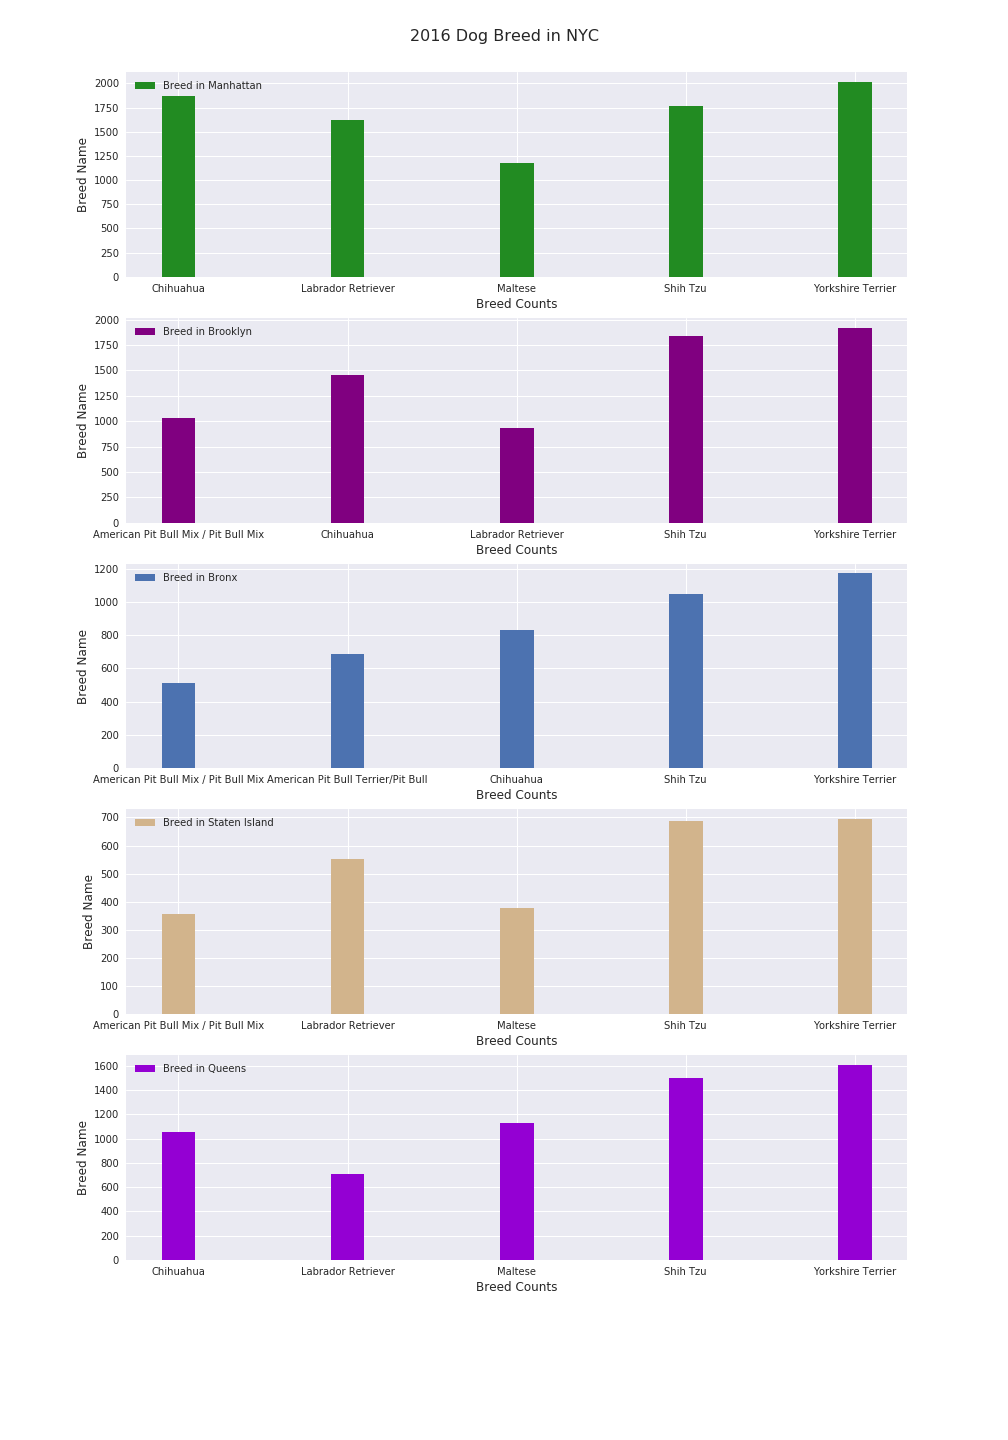
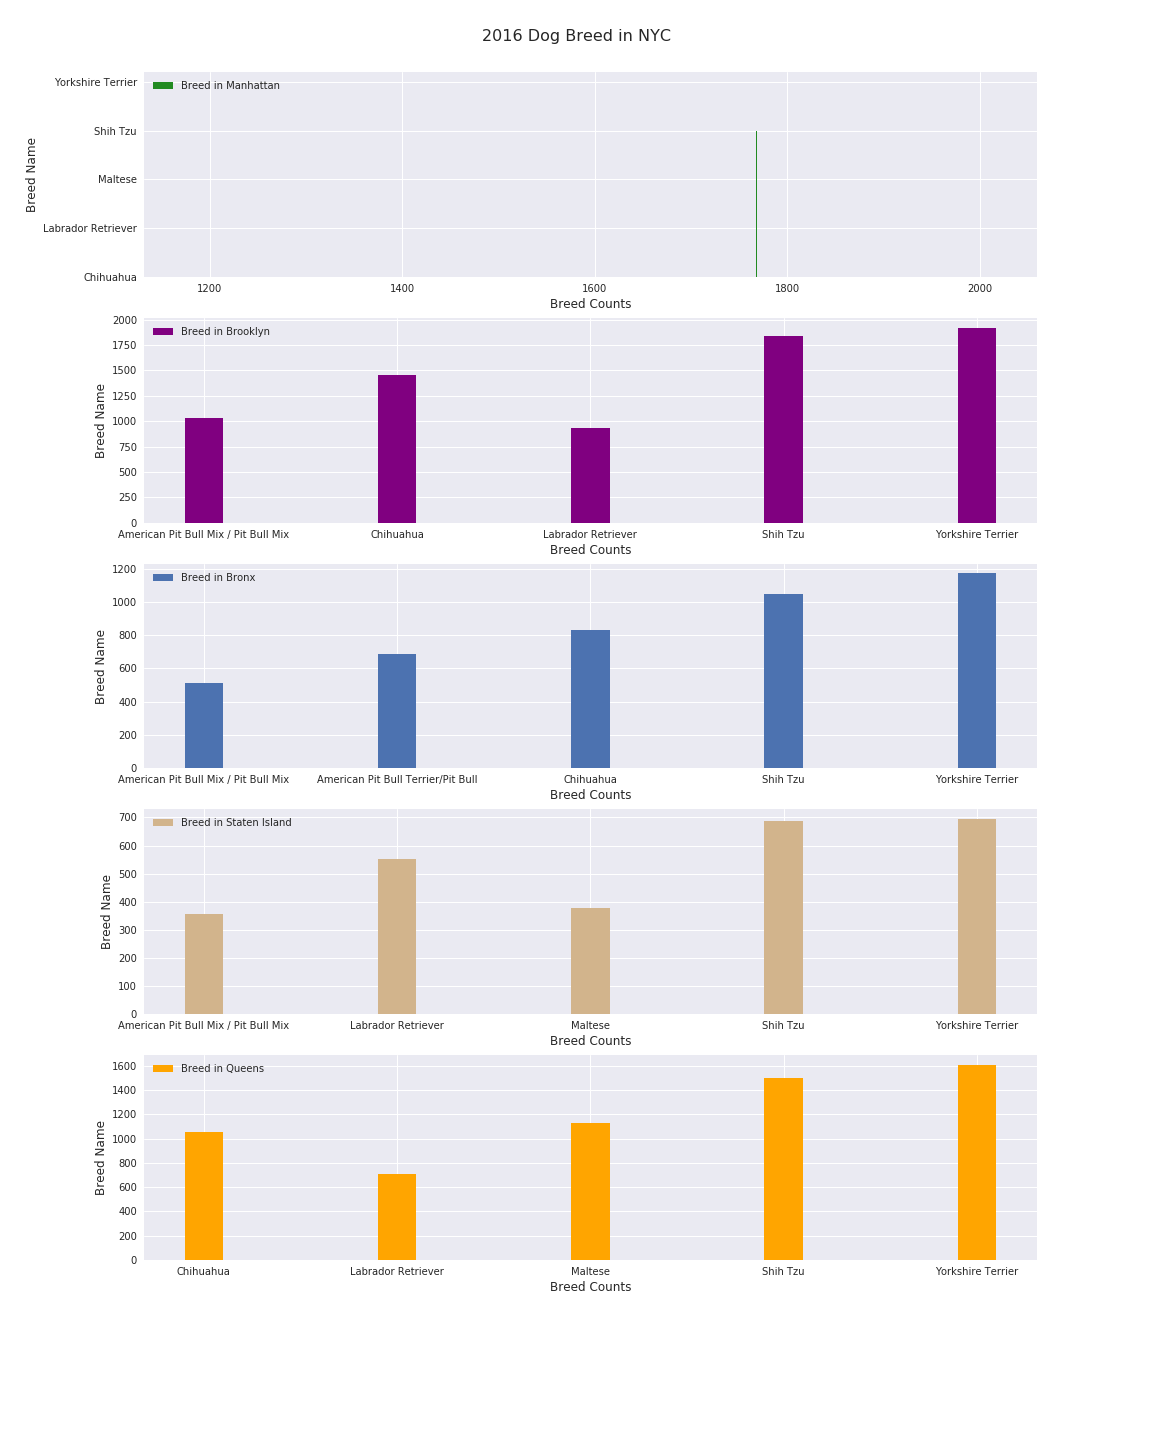
suanle

diff --git a/HW11_cl4855/.ipynb_checkpoints/README-checkpoint.md b/HW11_cl4855/.ipynb_checkpoints/README-checkpoint.md
@@ -1,0 +1,12 @@
+# HW11 
+
+## Assignment 1 
+
+First I used double loop to plot and understand how the dataset is.
+Then I found the event of the time series at 126 weeks.
+I found the trend by ratio change of last 10 weeks data and first 10 weeks data and plot the change of smooth and not smooth time series.
+In the part 3, I figured out the slope and intercept but I can't go on :(
+
+## Assignment 2 
+
+I changed my figure based on the reviews from Sarah and Nathan.

diff --git a/HW11_cl4855/README.md b/HW11_cl4855/README.md
@@ -1,0 +1,12 @@
+# HW11 
+
+## Assignment 1 
+
+First I used double loop to plot and understand how the dataset is.
+Then I found the event of the time series at 126 weeks.
+I found the trend by ratio change of last 10 weeks data and first 10 weeks data and plot the change of smooth and not smooth time series.
+In the part 3, I figured out the slope and intercept but I can't go on :(
+
+## Assignment 2 
+
+I changed my figure based on the reviews from Sarah and Nathan.
